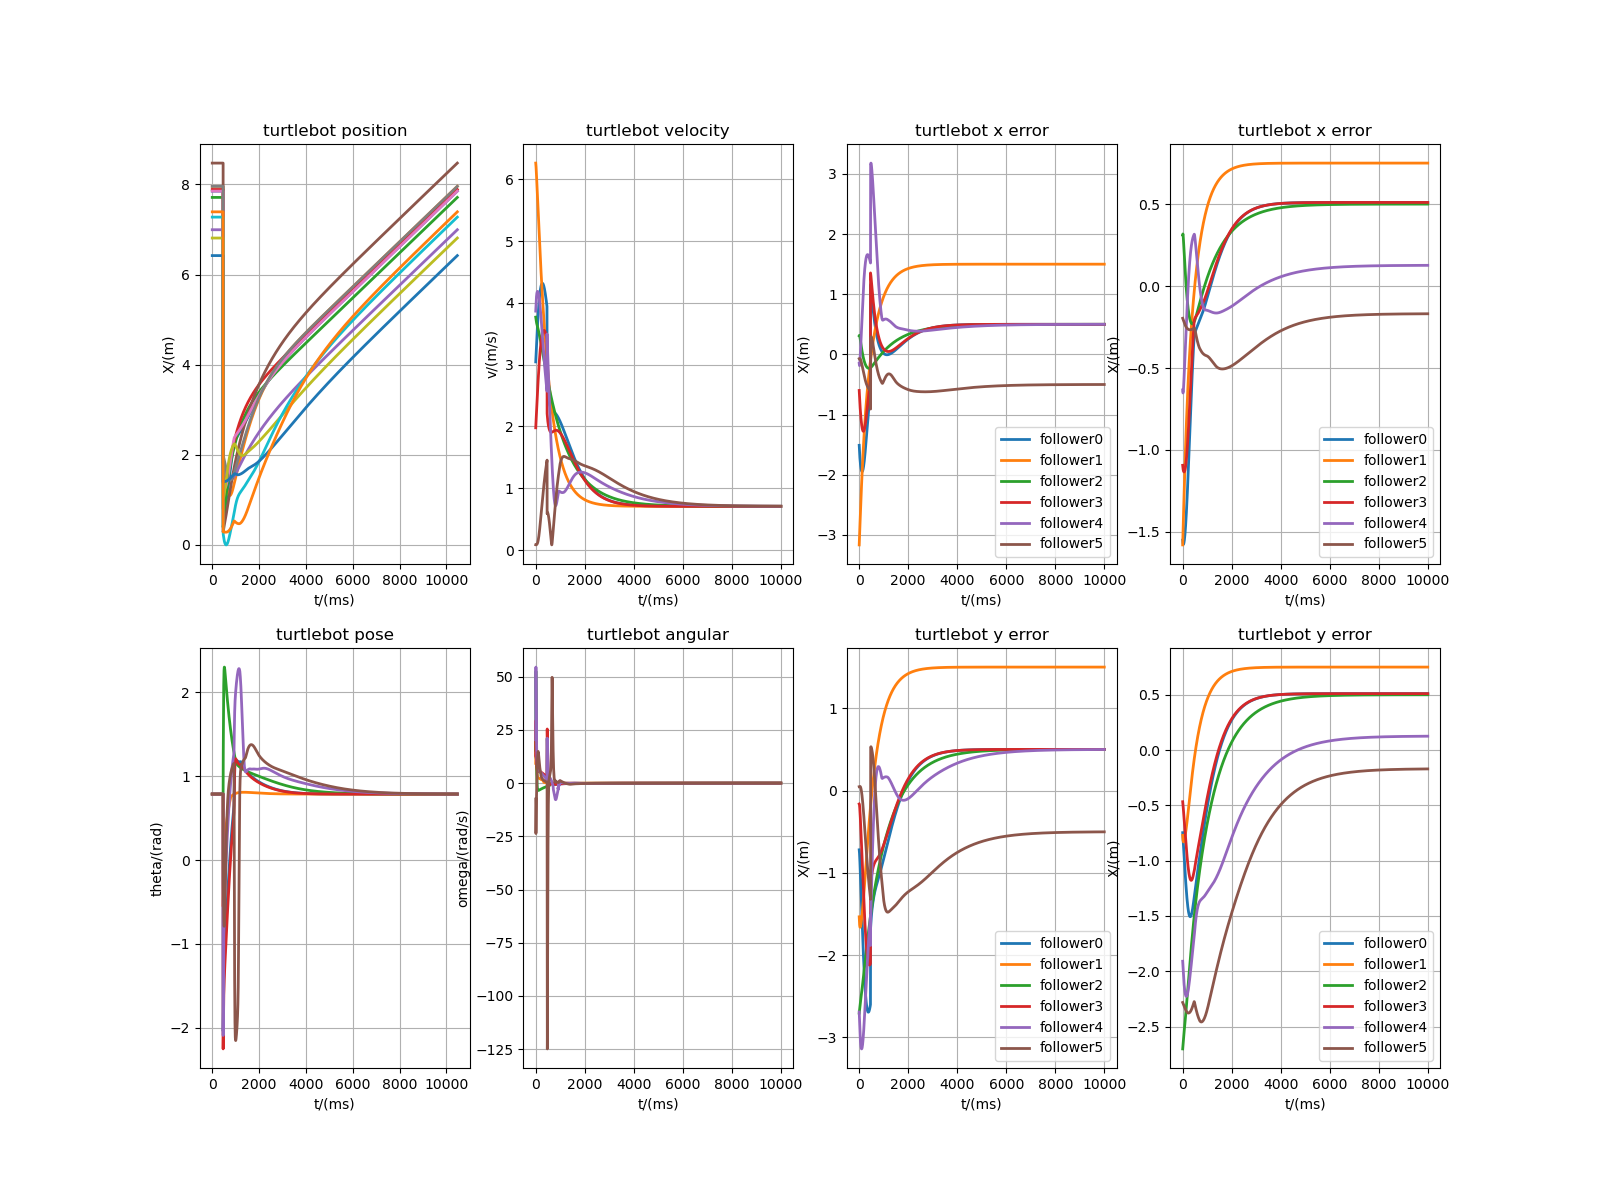
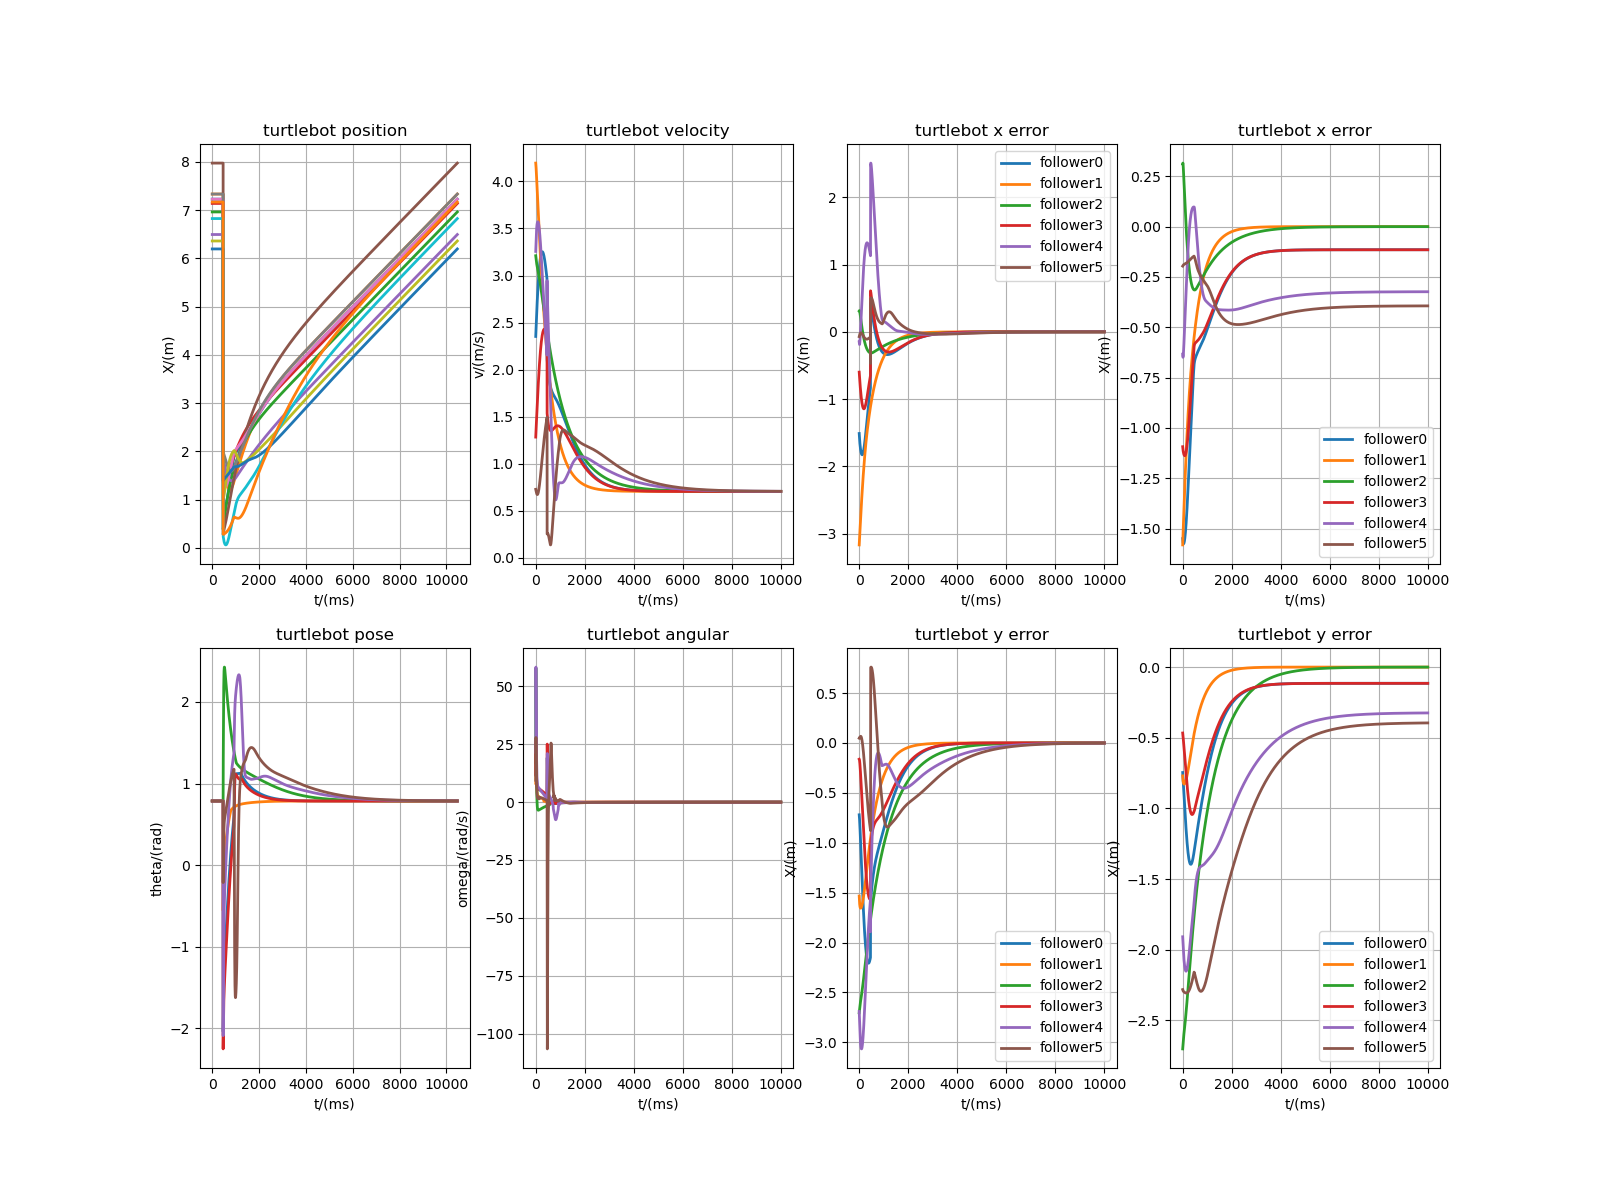
add 非线性非完整约束 file

diff --git a/containment/containment11非线性非完整约束离散化-领导者移动+时延.py b/containment/containment11非线性非完整约束离散化-领导者移动+时延.py
@@ -119,6 +119,8 @@ hat_ex_history = []
 hat_ey_history = []
 errx_actual_history = []
 erry_actual_history = []
+hat_evx_history = []
+hat_evy_history = []
 
 for i in range(dmax):
     x_history.append(x)
@@ -133,6 +135,8 @@ for k in range(iter):
     hat_ey = [0,0,0,0,0,0]
     dot_dx = [0,0,0,0,0,0]
     dot_dy = [0,0,0,0,0,0]
+    hat_evx = [0,0,0,0,0,0]
+    hat_evy = [0,0,0,0,0,0]
     # 控制方程
     for i in range(num_follower):
         for j in range(num_follower):
@@ -141,8 +145,12 @@ for k in range(iter):
         for j in range(num_leader):
             hat_ex[i] = hat_ex[i] - A_LF[i][j] * (x[i] - rx[j])
             hat_ey[i] = hat_ey[i] - A_LF[i][j] * (y[i] - ry[j])
-            dot_dx[i] = dot_dx[i] + A_LF[i][j] * dot_rx[j]
-            dot_dy[i] = dot_dy[i] + A_LF[i][j] * dot_ry[j]
+            # dot_dx[i] = dot_dx[i] + A_LF[i][j] * dot_rx[j]
+            # dot_dy[i] = dot_dy[i] + A_LF[i][j] * dot_ry[j]
+        dot_dx[i] = dot_rx[1]
+        dot_dy[i] = dot_ry[1]
+        hat_evx[i] = dot_rx[1] - v[i] * np.sin(theta[i])
+        hat_evy[i] = dot_ry[1] - v[i] * np.cos(theta[i])
         ux[i] = dot_dx[i] + k1 * hat_ex[i]
         uy[i] = dot_dy[i] + k2 * hat_ey[i]
         theta_d[i] = math.atan2(uy[i], ux[i])
@@ -205,6 +213,8 @@ for k in range(iter):
     hat_ey_history.append([-hat_ey[0],-hat_ey[1],-hat_ey[2],-hat_ey[3],-hat_ey[4],-hat_ey[5]])
     errx_actual_history.append([errx_actual[0],errx_actual[1],errx_actual[2],errx_actual[3],errx_actual[4],errx_actual[5]])
     erry_actual_history.append([erry_actual[0],erry_actual[1],erry_actual[2],erry_actual[3],erry_actual[4],erry_actual[5]])
+    hat_evx_history.append([hat_evx[0],hat_evx[1],hat_evx[2],hat_evx[3],hat_evx[4],hat_evx[5]])
+    hat_evy_history.append([hat_evy[0],hat_evy[1],hat_evy[2],hat_evy[3],hat_evy[4],hat_evy[5]])
 
 x_history = np.array(x_history)
 y_history = np.array(y_history)
@@ -217,7 +227,27 @@ hat_ex_history = np.array(hat_ex_history)
 hat_ey_history = np.array(hat_ey_history)
 errx_actual_history = np.array(errx_actual_history)
 erry_actual_history = np.array(erry_actual_history)
+hat_evx_history = np.array(hat_ex_history)
+hat_evy_history = np.array(hat_ey_history)
 
+plt.subplot(2, 1, 1)
+plt.grid()
+for i in range(num_follower):
+    plt.plot(hat_evx_history[:,i], lw=2, label=f"follower{i}")
+plt.legend()# 添加图例
+plt.title('turtlebot vx error')    # 设置图形标题和坐标轴标签
+plt.xlabel('t/(ms)')
+plt.ylabel('X/(m/s)')
+# --------------------------------------------------------------------------------------------
+plt.subplot(2, 1, 2)
+plt.grid()
+for i in range(num_follower):
+    plt.plot(hat_evy_history[:,i], lw=2, label=f"follower{i}")
+plt.legend()# 添加图例
+plt.title('turtlebot vy error')    # 设置图形标题和坐标轴标签
+plt.xlabel('t/(ms)')
+plt.ylabel('X/(m/s)')
+plt.show()
 # --------------------------------------------------------------------------------------------
 plt.subplots(figsize=(16, 12))
 plt.subplot(2, 4, 1)
@@ -365,8 +395,8 @@ leader_positions=np.zeros([num_leader, 2])
 
 def update(frame):
     # if frame % slice == 0:
-    follower_positions[:,0]=x_history[frame*slice,:]
-    follower_positions[:,1]=y_history[frame*slice,:]
+    follower_positions[:,0]=x_history[frame*slice+dmax,:]
+    follower_positions[:,1]=y_history[frame*slice+dmax,:]
     follower_scatter.set_offsets(follower_positions[:,:])
     
     # ---------------------------------------------

diff --git a/containment/containment12非线性非完整约束离散化-领导者移动+时延控制律修改.py b/containment/containment12非线性非完整约束离散化-领导者移动+时延控制律修改.py
@@ -30,12 +30,12 @@ y = [0 + 2 * random.random(),
      0 + 2 * random.random(),
      0 + 2 * random.random(),
      0 + 2 * random.random()]
-theta = [-3.14 + 6.28 * random.random(),
-         -3.14 + 6.28 * random.random(),
-         -3.14 + 6.28 * random.random(),
-         -3.14 + 6.28 * random.random(),
-         -3.14 + 6.28 * random.random(),
-         -3.14 + 6.28 * random.random()]
+theta = [0 + 0.28 * random.random(),
+         0 + 0.28 * random.random(),
+         0 + 0.28 * random.random(),
+         0 + 0.28 * random.random(),
+         0 + 0.28 * random.random(),
+         0 + 0.28 * random.random()]
 hat_theta_d = [0,0,0,0,0,0]
 dot_hat_theta_d = [0,0,0,0,0,0]
 rx = [1 + 2 * random.random(),
@@ -52,8 +52,8 @@ ddot_rx = [0,0,0,0]
 ddot_ry = [0,0,0,0]
 
 # 系数
-k1 = 1
-k2 = 1
+k1 = 0.2
+k2 = 0.2
 k3 = 2
 R = 100
 
@@ -94,7 +94,7 @@ d = np.floor(tau/0.001).astype(int)
 
 non_zero_indices = A_F != 0    # 找到 A 中不等于0的元素的位置
 # ------------------------------主要修改这里--------------------------------
-tau_actual = [460, 461, 462, 463, 464, 465]
+tau_actual = [1, 1, 1, 1, 1, 1]
 d[non_zero_indices] = tau_actual    # 使用布尔索引将新值赋予 d 矩阵
 
 dmax = np.max(d)
@@ -143,13 +143,16 @@ for k in range(iter):
         for j in range(num_leader):
             hat_ex[i] = hat_ex[i] - A_LF[i][j] * (x[i] - rx[j])
             hat_ey[i] = hat_ey[i] - A_LF[i][j] * (y[i] - ry[j])
-            dot_dx[i] = dot_dx[i] + A_LF[i][j] * dot_rx[j]
-            dot_dy[i] = dot_dy[i] + A_LF[i][j] * dot_ry[j]
+            # dot_dx[i] = dot_dx[i] + A_LF[i][j] * dot_rx[j]
+            # dot_dy[i] = dot_dy[i] + A_LF[i][j] * dot_ry[j]
+            dot_dx[i] = dot_rx[0]
+            dot_dy[i] = dot_ry[0]
         ux[i] = (k1 + 1) * dot_dx[i] + k1 * hat_ex[i]
         uy[i] = (k2 + 1) * dot_dy[i] + k2 * hat_ey[i]
 
-        v[i] = math.sqrt(uy[i]**2 + ux[i]**2)        
-        omega[i] = dot_hat_theta_d[i] + k3 * (theta_d[i] - theta[i])      # 暂时不加上饱和函数
+        v[i] = 1/(k1+1)*(ux[i]*np.cos(theta[i])+uy[i]*np.sin(theta[i]))
+        # v[i] = np.sign(v[i])*v[i]
+        omega[i] = 1/v[i]*(-ux[i]*np.sin(theta[i])+uy[i]*np.cos(theta[i]))      # 暂时不加上饱和函数
         # # --------------------------------加上饱和函数-----------------------------------------
         # de = 0.05
         # kkk = 1/de
@@ -348,8 +351,8 @@ leader_positions=np.zeros([num_leader, 2])
 
 def update(frame):
     # if frame % slice == 0:
-    follower_positions[:,0]=x_history[frame*slice,:]
-    follower_positions[:,1]=y_history[frame*slice,:]
+    follower_positions[:,0]=x_history[frame*slice+dmax,:]
+    follower_positions[:,1]=y_history[frame*slice+dmax,:]
     follower_scatter.set_offsets(follower_positions[:,:])
     
     # ---------------------------------------------
